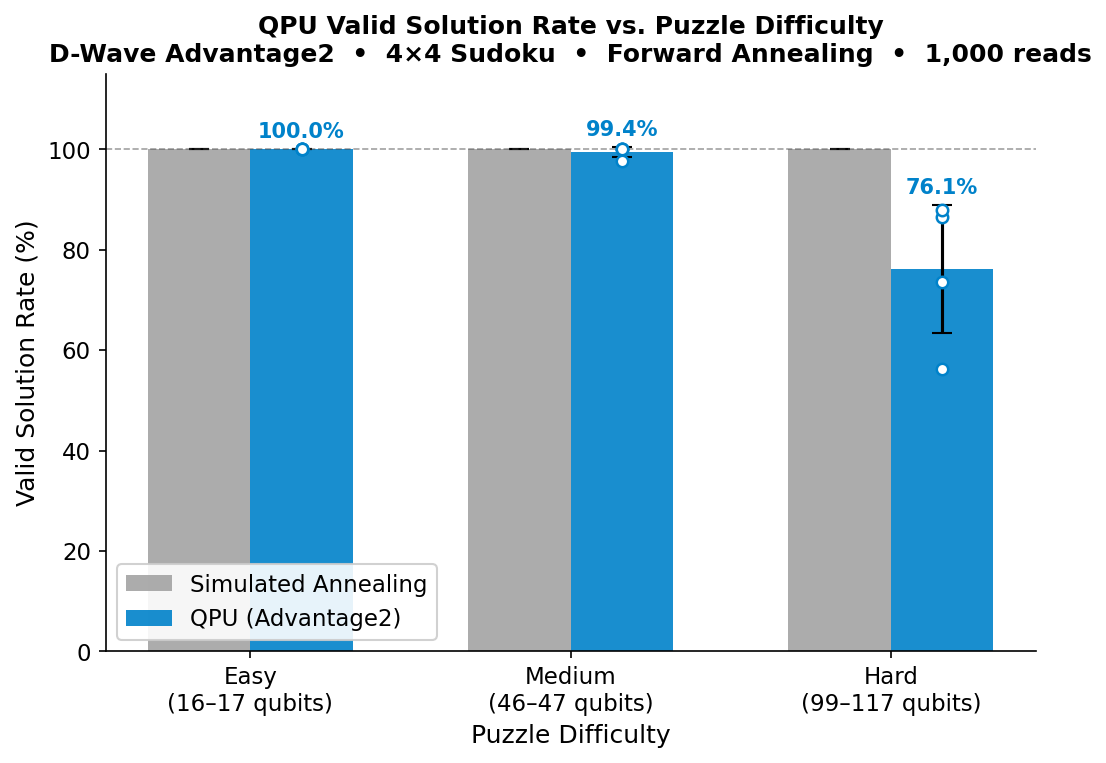
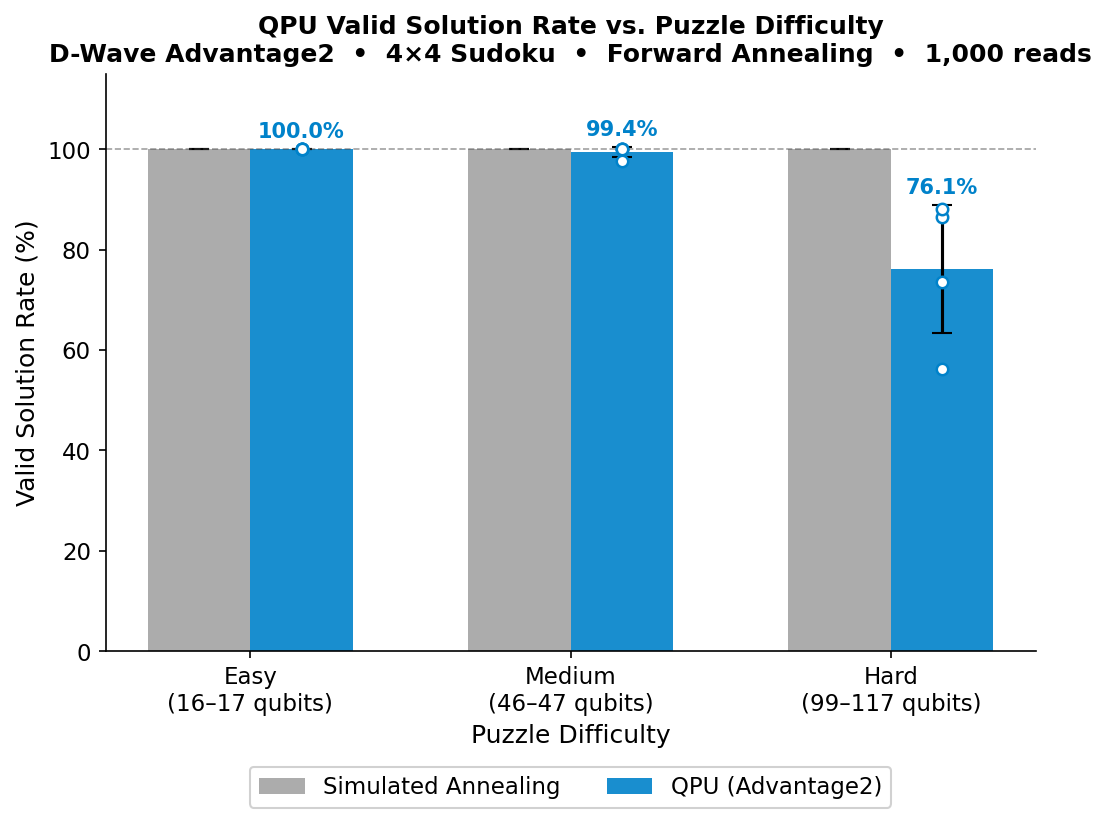
Fix figure label overlaps; add fig2 generation script
fig6: move legend below chart to avoid bar overlap
fig2: recreate with non-overlapping row labels, arrow annotations,
      connecting lines, and committed generation script

diff --git a/figures/plot_fig2_onehot.py b/figures/plot_fig2_onehot.py
@@ -1,0 +1,216 @@
+"""
+Recreate fig2_onehot_matrix.png — One-Hot Encoding visualization.
+
+Shows how a 4×4 Sudoku puzzle maps to a 16×4 binary encoding matrix,
+color-coded by variable status (free / eliminated / fixed=1).
+
+Uses hard_1 puzzle: 4 givens (2 @ r0c1, 3 @ r1c3, 2 @ r2c0, 4 @ r3c2)
+
+Run from repo root:
+    python figures/plot_fig2_onehot.py
+"""
+
+import numpy as np
+import matplotlib.pyplot as plt
+import matplotlib.patches as mpatches
+from matplotlib.patches import FancyArrowPatch
+from pathlib import Path
+
+OUT = Path(__file__).parent / "fig2_onehot_matrix.png"
+
+# hard_1 puzzle (0 = blank)
+PUZZLE = np.array([
+    [0, 2, 0, 0],
+    [0, 0, 0, 3],
+    [2, 0, 0, 0],
+    [0, 0, 4, 0],
+])
+N = 4
+
+# ---------------------------------------------------------------------------
+# Build encoding matrix  shape (16, 4)
+# Row i*N+j = cell (i,j), col k = digit k+1
+# Values: 0 = free, -1 = eliminated (given wrong digit), 1 = fixed
+# ---------------------------------------------------------------------------
+enc = np.zeros((N * N, N), dtype=int)
+for i in range(N):
+    for j in range(N):
+        g = PUZZLE[i, j]
+        if g != 0:
+            for k in range(N):
+                enc[i * N + j, k] = 1 if k == g - 1 else -1
+
+# Colors
+FREE_C  = "#AED6F1"   # light blue
+ELIM_C  = "#D5D8DC"   # light gray
+FIXED_C = "#1A5276"   # dark blue
+BLANK_C = "white"
+
+# ---------------------------------------------------------------------------
+# Layout: puzzle grid left, matrix right, connecting lines in between
+# ---------------------------------------------------------------------------
+fig = plt.figure(figsize=(13, 7))
+fig.patch.set_facecolor("white")
+
+ax_puzzle = fig.add_axes([0.02, 0.12, 0.28, 0.72])   # left: puzzle
+ax_matrix = fig.add_axes([0.42, 0.08, 0.42, 0.80])   # right: matrix
+
+# ── Puzzle grid ─────────────────────────────────────────────────────────────
+ax_puzzle.set_xlim(0, N)
+ax_puzzle.set_ylim(0, N)
+ax_puzzle.set_aspect("equal")
+ax_puzzle.axis("off")
+ax_puzzle.set_title("4×4 Puzzle", fontsize=12, fontweight="bold", pad=8)
+
+BOX_GIVEN = "#F9E79F"
+BOX_FREE  = "white"
+
+for i in range(N):
+    for j in range(N):
+        val  = PUZZLE[i, j]
+        row  = N - 1 - i          # flip so row 0 is at top
+        col  = j
+        color = BOX_GIVEN if val != 0 else BOX_FREE
+        rect = plt.Rectangle([col, row], 1, 1,
+                              facecolor=color, edgecolor="#888888", linewidth=1.2)
+        ax_puzzle.add_patch(rect)
+        if val != 0:
+            ax_puzzle.text(col + 0.5, row + 0.5, str(val),
+                           ha="center", va="center",
+                           fontsize=18, fontweight="bold", color="#333333")
+        else:
+            ax_puzzle.text(col + 0.5, row + 0.5, "?",
+                           ha="center", va="center",
+                           fontsize=12, color="#aaaaaa")
+
+# Box borders (2×2 boxes)
+for br in range(2):
+    for bc in range(2):
+        rect = plt.Rectangle([bc * 2, br * 2], 2, 2,
+                              fill=False, edgecolor="#333333", linewidth=2.2)
+        ax_puzzle.add_patch(rect)
+
+# Legend for puzzle
+given_patch = mpatches.Patch(facecolor=BOX_GIVEN, edgecolor="#888888", label="Given clue")
+free_patch  = mpatches.Patch(facecolor=BOX_FREE,  edgecolor="#888888", label="Free cell")
+ax_puzzle.legend(handles=[given_patch, free_patch],
+                 loc="lower center", bbox_to_anchor=(0.5, -0.12),
+                 fontsize=9, framealpha=0.9, ncol=2)
+
+# ── Encoding matrix ─────────────────────────────────────────────────────────
+ax_matrix.set_xlim(-0.5, N - 0.5)
+ax_matrix.set_ylim(-0.5, N * N - 0.5)
+ax_matrix.set_aspect("equal")
+ax_matrix.axis("off")
+ax_matrix.set_title(
+    f"16×4 Encoding Matrix  ({N*N} binary variables per digit = {N*N*N} total,  "
+    f"{int(np.sum(enc == 0))} free)",
+    fontsize=11, fontweight="bold", pad=10,
+)
+
+for row_idx in range(N * N):
+    cell_row = row_idx // N   # 0-indexed puzzle row
+    cell_col = row_idx % N    # 0-indexed puzzle col
+    mat_y    = N * N - 1 - row_idx   # flip so (1,1) at top
+
+    for k in range(N):
+        v = enc[row_idx, k]
+        if v == 0:
+            color = FREE_C
+        elif v == -1:
+            color = ELIM_C
+        else:
+            color = FIXED_C
+
+        rect = plt.Rectangle([k - 0.5, mat_y - 0.5], 1, 1,
+                              facecolor=color, edgecolor="white", linewidth=0.8)
+        ax_matrix.add_patch(rect)
+
+    # Row label (right side) — (row, col) 1-indexed
+    ax_matrix.text(N - 0.5 + 0.55, mat_y,
+                   f"({cell_row+1},{cell_col+1})",
+                   ha="left", va="center", fontsize=8, color="#444444")
+
+# Column labels (bottom)
+for k in range(N):
+    ax_matrix.text(k, -0.5 - 0.4, f"d={k+1}",
+                   ha="center", va="top", fontsize=10, fontweight="bold")
+
+# Annotations with arrows pointing to specific rows
+# Row (1,2): given=2 — top given row in matrix (row_idx=1 → mat_y = N²-2 = 14)
+given_row_y = N * N - 1 - 1   # (1,2) is row_idx=1
+
+ax_matrix.annotate(
+    "given=2:\none locked, 3 killed",
+    xy=(N - 0.5, given_row_y),
+    xytext=(N + 1.6, given_row_y + 2.5),
+    fontsize=8.5, color="#7D6608",
+    ha="left", va="center",
+    arrowprops=dict(arrowstyle="->", color="#7D6608", lw=1.2),
+    bbox=dict(boxstyle="round,pad=0.3", facecolor="#FEF9E7",
+              edgecolor="#7D6608", alpha=0.9),
+)
+
+# Row (1,1): free — row_idx=0 → mat_y = N²-1 = 15
+free_row_y = N * N - 1 - 0
+
+ax_matrix.annotate(
+    "free:\nall 4 vars active",
+    xy=(N - 0.5, free_row_y),
+    xytext=(N + 1.6, free_row_y + 1.2),
+    fontsize=8.5, color="#1A5276",
+    ha="left", va="center",
+    arrowprops=dict(arrowstyle="->", color="#1A5276", lw=1.2),
+    bbox=dict(boxstyle="round,pad=0.3", facecolor="#EBF5FB",
+              edgecolor="#1A5276", alpha=0.9),
+)
+
+# ── Bottom legend for matrix ─────────────────────────────────────────────────
+n_free  = int(np.sum(enc == 0))
+n_elim  = int(np.sum(enc == -1))
+n_fixed = int(np.sum(enc == 1))
+
+patches = [
+    mpatches.Patch(facecolor=FREE_C,  edgecolor="#888888",
+                   label=f"Free variable  ({n_free} vars)"),
+    mpatches.Patch(facecolor=ELIM_C,  edgecolor="#888888",
+                   label=f"Eliminated  ({n_elim} vars, given ≠ digit)"),
+    mpatches.Patch(facecolor=FIXED_C, edgecolor="#888888",
+                   label=f"Fixed = 1  ({n_fixed} vars, given = digit)"),
+]
+fig.legend(handles=patches, loc="lower center", bbox_to_anchor=(0.62, 0.0),
+           fontsize=9, ncol=3, framealpha=0.9)
+
+# ── Connecting lines (puzzle cell → matrix row) ───────────────────────────────
+# Map puzzle axes → figure coords via transforms
+for i in range(N):
+    for j in range(N):
+        row_idx = i * N + j
+        mat_y   = N * N - 1 - row_idx
+
+        # Puzzle cell center in axes coords
+        puz_x = j + 0.5
+        puz_y = (N - 1 - i) + 0.5
+
+        # Convert to figure coords
+        puz_disp  = ax_puzzle.transData.transform((puz_x, puz_y))
+        puz_fig   = fig.transFigure.inverted().transform(puz_disp)
+
+        mat_disp  = ax_matrix.transData.transform((-0.5, mat_y))
+        mat_fig   = fig.transFigure.inverted().transform(mat_disp)
+
+        line = plt.Line2D(
+            [puz_fig[0], mat_fig[0]],
+            [puz_fig[1], mat_fig[1]],
+            transform=fig.transFigure,
+            color="#AAAAAA", linewidth=0.5, alpha=0.5,
+        )
+        fig.add_artist(line)
+
+# ── Overall title ─────────────────────────────────────────────────────────────
+fig.suptitle("One-Hot Encoding: Each Sudoku Cell Becomes N Binary Variables",
+             fontsize=13, fontweight="bold", y=0.97)
+
+plt.savefig(OUT, dpi=150, bbox_inches="tight", facecolor="white")
+plt.close()
+print(f"Saved {OUT}")

diff --git a/figures/plot_qpu_results.py b/figures/plot_qpu_results.py
@@ -183,7 +183,8 @@ ax.tick_params(axis="both", labelsize=11)
 ax.spines["top"].set_visible(False)
 ax.spines["right"].set_visible(False)
 
-ax.legend(fontsize=11, framealpha=0.9, loc="lower left")
+ax.legend(fontsize=11, framealpha=0.9,
+          loc="upper center", bbox_to_anchor=(0.5, -0.18), ncol=2)
 
 ax.set_title(
     "QPU Valid Solution Rate vs. Puzzle Difficulty\n"
